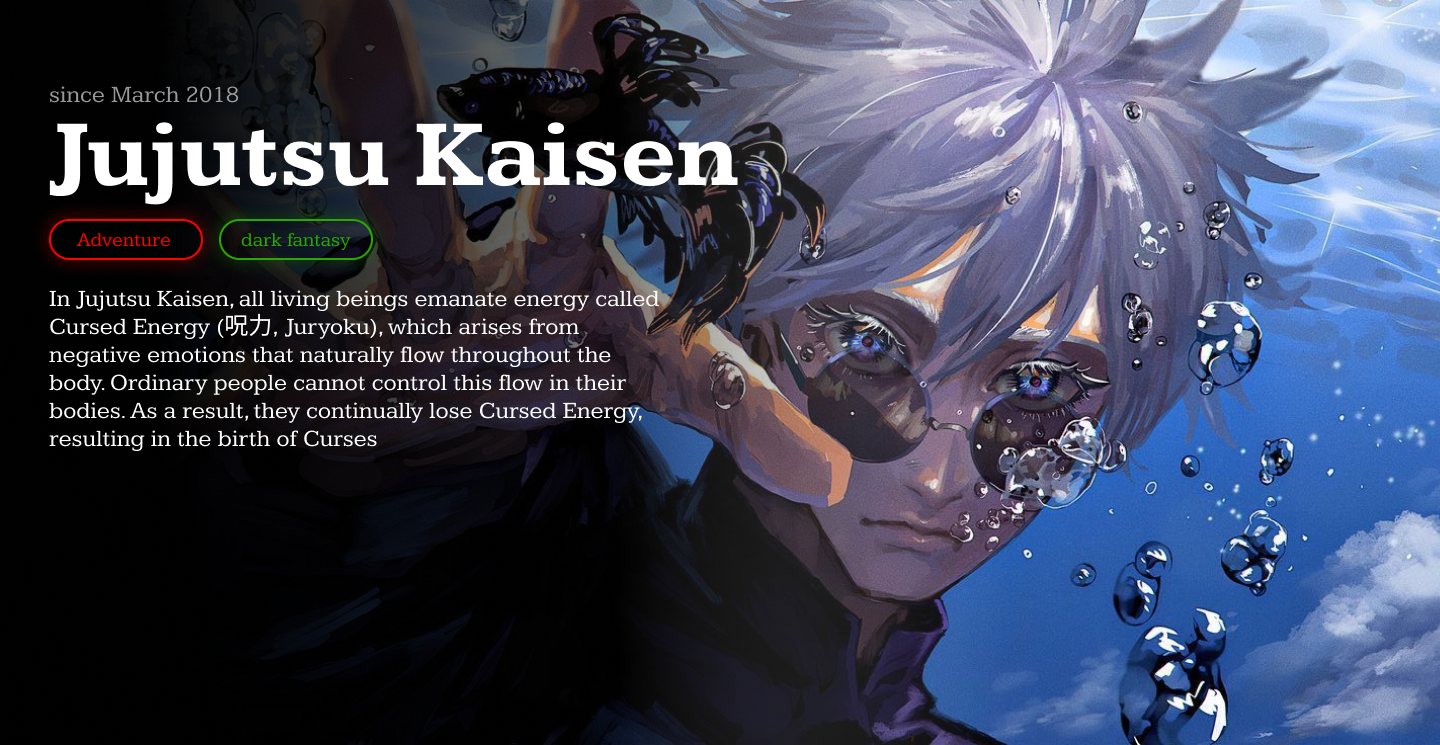
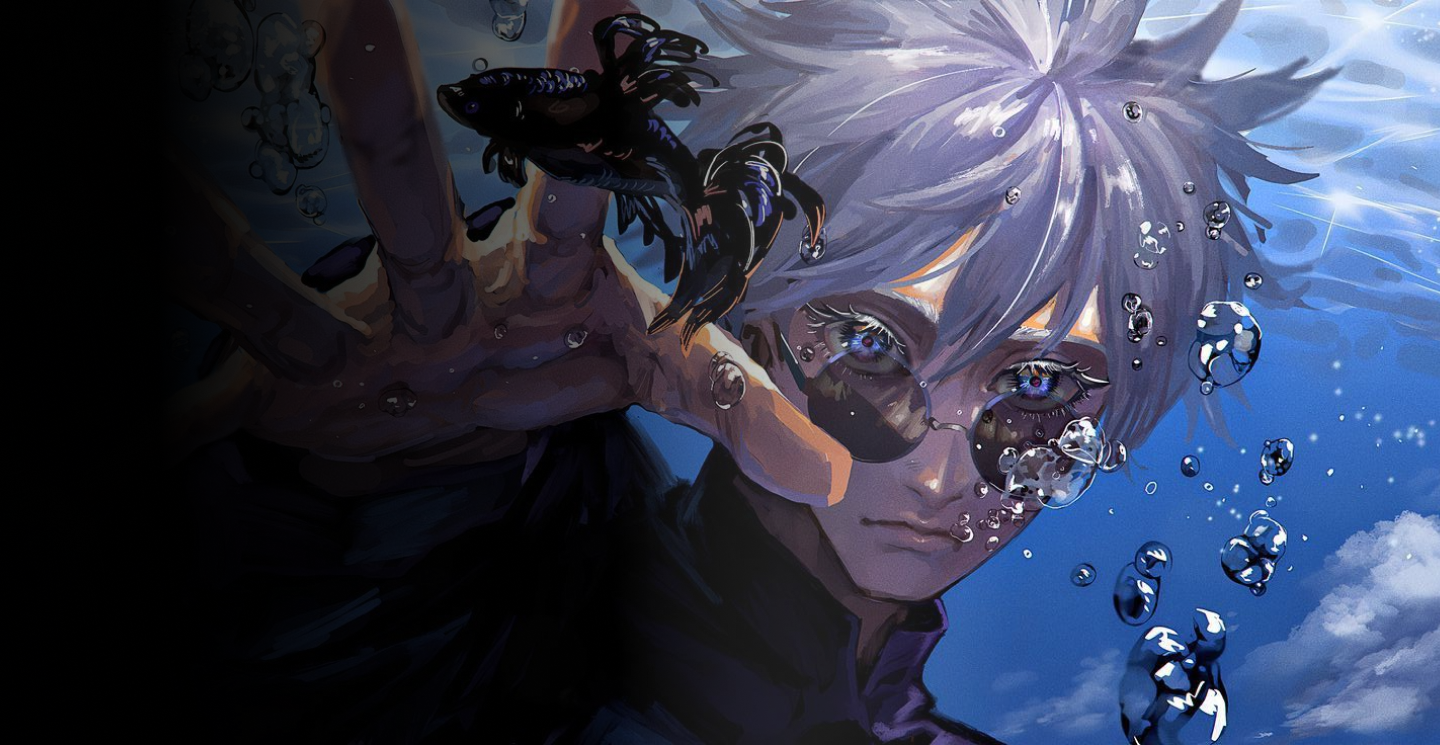
เพิ่มหน้า login ใหม่ขึ้นมา

Changed region(s): [[0.0312, 0.1235, 0.5312, 0.6174]]

diff --git a/Frontend/myWeb/src/Login/Login1.css b/Frontend/myWeb/src/Login/Login1.css
@@ -1,0 +1,179 @@
+
+.pageLogin1 {
+    background-color: black;
+    margin: 0px;
+    position: relative; /* เพิ่มตำแหน่งแบบ relative ให้กับคอนเทนเนอร์ */
+}
+
+.PosterINFO {
+    width: 100%;
+    height: 50%;
+    margin-top: 20px;
+    pointer-events: none; /* กอปรูปด้านหลังไม่ได้ */
+    position: relative; /* ตั้งค่าให้รูปภาพอยู่ในตำแหน่ง relative */
+    z-index: 1; /* z-index ต่ำกว่าเมนูเพื่อให้ไม่ทับเมนู */
+}
+
+.text-overlay-forPoster {
+    position: absolute;
+    margin-top: 110px;
+    top: 0;
+    left: 40px;
+    width: 100%;
+    color: #ffffff;
+    font-family: 'Kameron';
+    font-weight: bold;
+    padding: 10px;
+    border-radius: 0 0 10px 10px;
+    font-size: 96px;
+    text-align: left;
+    box-sizing: border-box;
+}
+
+.text-overlay-info {
+    position: absolute;
+    margin-top: 250px;
+    width: 600px;
+    top: 0;
+    left: 40px;
+    color: #cbcbcb;
+    font-family: 'Kameron';
+    padding: 10px;
+    border-radius: 0 0 10px 10px;
+    font-size: 24px;
+    text-align: left;
+    box-sizing: border-box;
+}
+
+.text-overlay-infodate {
+    position: absolute;
+    margin-top: 90px;
+    width: 600px;
+    top: 0;
+    left: 40px;
+    color: #9d9d9d;
+    font-family: 'Kameron';
+    padding: 10px;
+    border-radius: 0 0 10px 10px;
+    font-size: 20px;
+    text-align: left;
+    box-sizing: border-box;
+}
+
+.text-overlay-forPoster,
+.text-overlay-info,
+.text-overlay-infodate {
+    position: absolute;
+    z-index: 1; /* z-index ต่ำกว่าเมนูเพื่อให้ไม่ทับเมนู */
+}
+
+
+
+.topnav {
+    position: fixed;
+    overflow: hidden;
+    background-color: #000000;
+    width: 100%;
+    z-index: 1000; /* เพิ่ม z-index เพื่อให้เมนูอยู่ด้านบนสุด */
+}
+
+
+.topnav h2 {
+    float: left;
+    color: #ffffff;
+    margin-left: 20px;
+    margin-bottom: 0px;
+}
+
+.topnav a {
+    float: right;
+    color: #f2f2f2;
+    text-align: center;
+    padding: 14px 16px;
+    text-decoration: none;
+    font-size: 17px;
+}
+
+.topnav a:hover {
+    background-color: #ddd;
+    color: black;
+}
+
+.topnav a.active {
+    background-color: #1b0e7b;
+    color: white;
+}
+
+
+
+
+.button-85-login1 {
+    position: absolute; /* เปลี่ยนเป็น absolute เพื่อให้ปุ่มอยู่บนรูปภาพ */
+    top: 480px; /* ปรับตำแหน่งปุ่มตามต้องการ */
+    left: 45px; /* ปรับตำแหน่งปุ่มตามต้องการ */
+    font-size: 24px;
+    padding: 15px 20px;
+    border: none;
+    outline: none;
+    color: rgb(69, 39, 6);
+    background: #FFE2BF;
+    cursor: pointer;
+    z-index: 2; /* คงไว้ที่ 2 เพื่อให้ปุ่มอยู่เหนือรูปภาพและข้อความ */
+    border-radius: 20px;
+    user-select: none;
+    -webkit-user-select: none;
+    touch-action: manipulation;
+}
+  
+  .button-85-login1:before {
+    content: "";
+    background: linear-gradient(
+      45deg,
+      #ff0000,
+      #ff7300,
+      #fffb00,
+      #48ff00,
+      #00ffd5,
+      #002bff,
+      #7a00ff,
+      #ff00c8,
+      #ff0000
+    );
+    position: absolute;
+    top: -2px;
+    left: -2px;
+    background-size: 400%;
+    z-index: -1;
+    filter: blur(5px);
+    -webkit-filter: blur(5px);
+    width: calc(100% + 4px);
+    height: calc(100% + 4px);
+    animation: glowing-button-85-login1 20s linear infinite;
+    transition: opacity 0.3s ease-in-out;
+    border-radius: 10px;
+  }
+  
+  @keyframes glowing-button-85-login1 {
+    0% {
+      background-position: 0 0;
+    }
+    50% {
+      background-position: 400% 0;
+    }
+    100% {
+      background-position: 0 0;
+    }
+  }
+  
+  .button-85-login1:after {
+    z-index: -1;
+    content: "";
+    position: absolute;
+    width: 100%;
+    height: 100%;
+    background: #FFE2BF;
+    left: 0;
+    top: 0;
+    border-radius: 10px;
+  }
+  

diff --git a/Frontend/myWeb/src/Login/Login1.tsx b/Frontend/myWeb/src/Login/Login1.tsx
@@ -1,0 +1,34 @@
+import './Login1.css';
+import Gojo from '../assets/Anime/gojoPoster.png';
+import { useNavigate } from 'react-router-dom';
+
+
+function Login1() {
+    const navigate = useNavigate();
+    const subscription = () => {
+        navigate('/subscription');
+    };
+    return (
+        <>
+            <div className='pageLogin1'>
+                <div className="topnav">
+                    <a className="active" href="/">Login</a>
+                    <a href="#news">Movie</a>
+                    <h2>Netflim</h2>
+                </div>
+
+                <div>
+                    
+                        <img className='PosterINFO' src={Gojo}></img>
+
+                        <div className="text-overlay-infodate">since March 2018 </div>
+                        <div className="text-overlay-forPoster">Jujutsu Kaisen</div>
+                        <div className="text-overlay-info">In Jujutsu Kaisen, all living beings emanate energy called Cursed Energy (呪力, Juryoku), which arises from negative emotions that naturally flow throughout the body. Ordinary people cannot control this flow in their bodies. As a result, they continually lose Cursed Energy, resulting in the birth of Curses </div>
+                        <button onClick={subscription} className="button-85-login1" >✨Subscribe✨</button>
+                </div>
+            </div>
+        </>
+    );
+}
+
+export default Login1;

diff --git a/Frontend/myWeb/src/App.tsx b/Frontend/myWeb/src/App.tsx
@@ -1,6 +1,7 @@
 import React from 'react';
 import { BrowserRouter as Router, Route, Routes } from 'react-router-dom';
 import Login from './Login/Login';
+import Login1 from './Login/Login1';
 import ForgetPassword from './ForgetPassword/ForgetPassword';
 import MainWeb from './MainWeb/MainWeb';
 import SignUp from './SignUp/SignUp';
@@ -17,6 +18,7 @@ const App: React.FC = () => {
         <Router>
             <Routes>
                 <Route path="/" element={<Login />} />
+                <Route path="/Login1" element={<Login1 />} />
                 <Route path="/forget-password" element={<ForgetPassword />} />
                 <Route path="/mainWeb" element={<MainWeb />} />
                 <Route path="/signup" element={<SignUp />} /> 

diff --git a/Frontend/myWeb/src/MainWeb/MainWeb.tsx b/Frontend/myWeb/src/MainWeb/MainWeb.tsx
@@ -21,7 +21,7 @@ import TheMatrix from "../assets/Movie/TheMatrix.jpg"
 import Xmen from "../assets/Movie/xmen.jpg"
 
 import yournameBig from "../assets/Anime/yournamePosterBig3.png";
-import ourBeLove from "../assets/Movie/ourBeLoveSummer.png";
+
 import { useNavigate } from 'react-router-dom';
 /*❤💁🏻♀🎞✨*/
 

diff --git a/Frontend/myWeb/src/SignUp/SignUp.css b/Frontend/myWeb/src/SignUp/SignUp.css
@@ -1,9 +1,9 @@
-/* รีเซ็ต margin และ padding ของ body */
+/* รีเซ็ต margin และ padding ของ body 
 body, html {
     margin: 0;
     padding: 0;
     height: 100%;
-}
+}*/
 
 /* กำหนดความสูงของ container และพื้นหลัง */
 .signup-container {

diff --git a/Frontend/myWeb/src/MainWeb/MainWeb.css b/Frontend/myWeb/src/MainWeb/MainWeb.css
@@ -2,7 +2,7 @@ html, body {
   margin: 0;
   padding: 0;
   height: 100%;
-  background-color: #000000;
+  background-color: #000000;/**/
   font-family: Arial, sans-serif;
   overflow-x: hidden; /* ป้องกันการเลื่อนแนวนอน */
 }

diff --git a/Frontend/myWeb/src/subscription/subscription.tsx b/Frontend/myWeb/src/subscription/subscription.tsx
@@ -1,4 +1,4 @@
-import React, { useState } from 'react';
+import { useState } from 'react';
 import './subscription.css';
 import payment from "../assets/payment/payment.jpg";
 import mastercard from "../assets/payment/mastercard.png";
